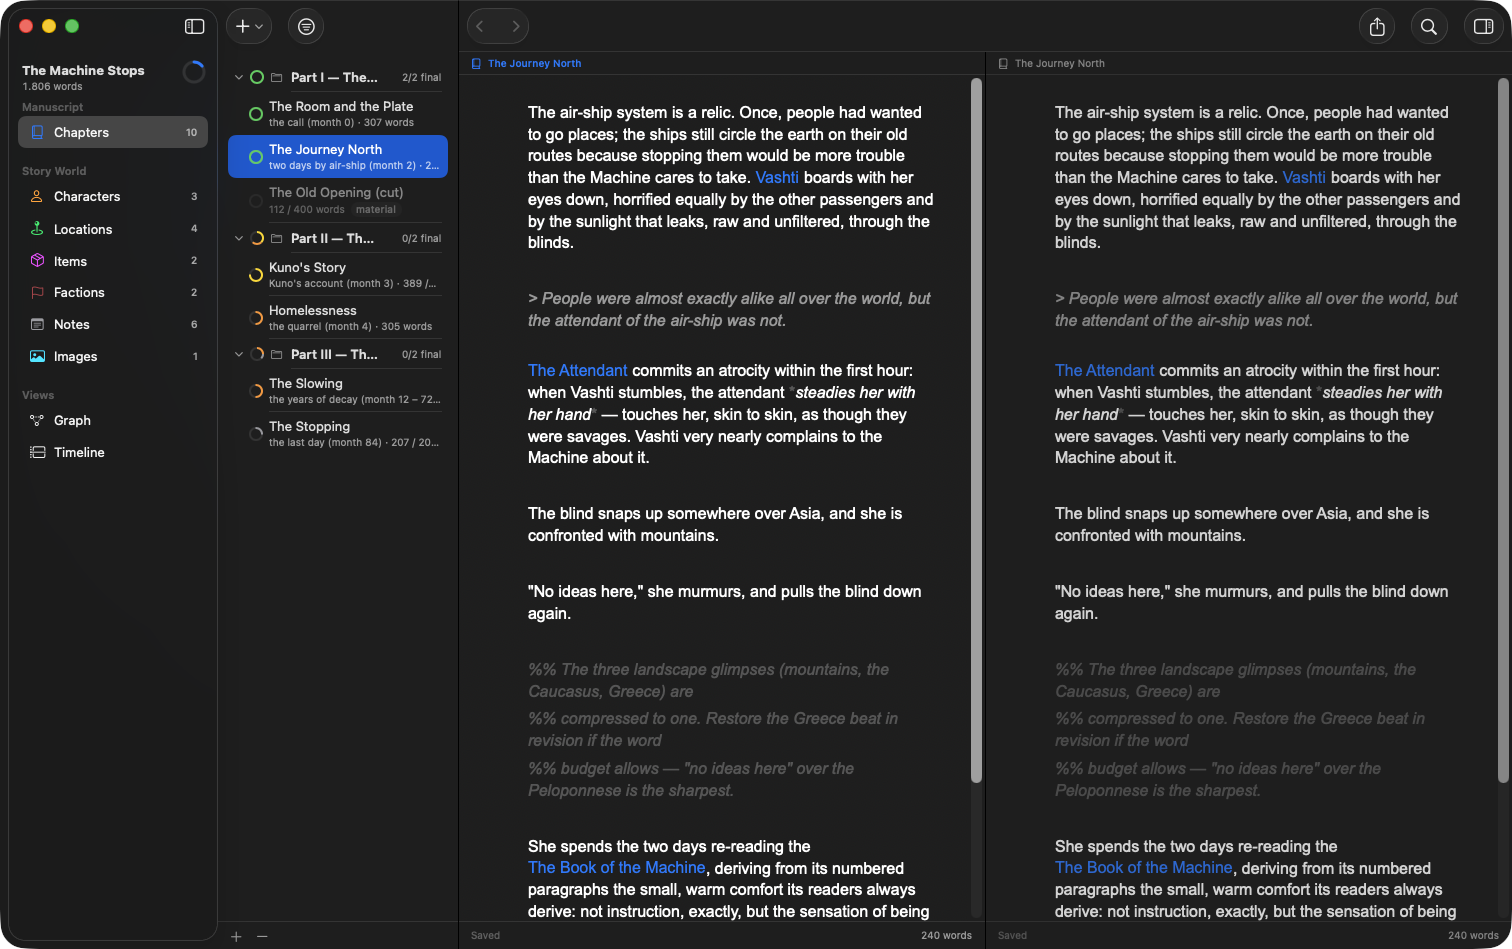
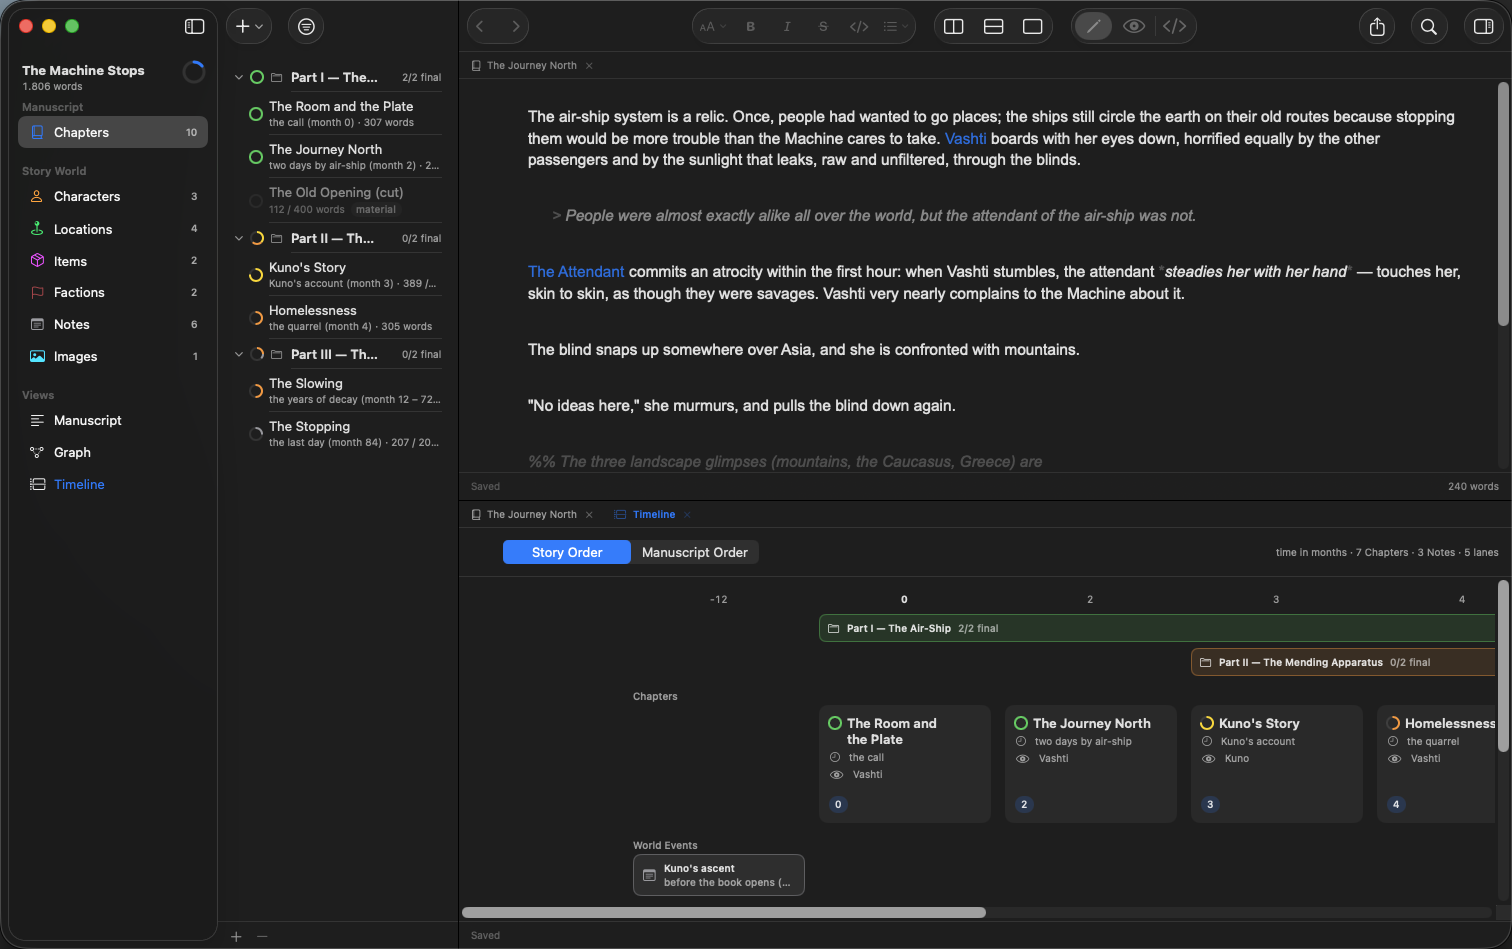
Document tabs and split editors

diff --git a/guide/editor.md b/guide/editor.md
@@ -23,7 +23,7 @@ You don't have to type the marks. The **format buttons above the editor** style 
 
 ### Three views of your text
 
-The switcher in the toolbar shows which view you're in and flips between them: **live styling** (the pencil — where you write), a clean **reading preview** (the eye), and the **raw text** (the brackets). The view belongs to the editor you're working in, so with the [split editor](#split-editor) open you can read one document while writing in the other. Every launch starts in live styling.
+The switcher in the toolbar shows which view you're in and flips between them: **live styling** (the pencil — where you write), a clean **reading preview** (the eye), and the **raw text** (the brackets). The view belongs to the pane you're working in, so with the editor [split](#splitting) you can read one document while writing in the other. Every launch starts in live styling.
 
 ### Preview
 
@@ -80,24 +80,40 @@ All in the **View menu**:
 <img src="/screenshots/editor-focus-light.png" alt="Sentence focus: the sentence at the cursor is dark, everything else dimmed" class="light-only">
 <img src="/screenshots/editor-focus-dark.png" alt="Sentence focus: the sentence at the cursor is dark, everything else dimmed" class="dark-only">
 
-## Three ways to lay out the editor
+## Tabs and split editors
 
-The switcher in the toolbar — and the matching group in the **View menu** — offers three layouts. You're always in exactly one of them, and the switcher shows which:
+Documents open in **tabs**, and the editor area can be **split** into as many panes as you have room for — the same way a code editor works, but for chapters.
 
-- **Single editor** <kbd>⌘⌥1</kbd> — one document at a time. The everyday view.
-- **Split editor** <kbd>⌘⌥2</kbd> — two documents side by side.
-- **Continuous scroll** <kbd>⌘⌥3</kbd> — the whole manuscript as one flowing text.
+### Tabs
 
-### Split editor
+Click a document in the list and it opens as a tab in the editor. Click another and it *replaces* that tab rather than adding one: a tab you've only glanced at shows its name in italics, and browsing the list never leaves a trail of tabs behind. The moment you type in it — or open it deliberately with **Open in Tab** from its right-click menu — the tab is yours and stays put.
 
-<img src="/screenshots/editor-split-light.png" alt="The split editor: two documents side by side" class="light-only">
-<img src="/screenshots/editor-split-dark.png" alt="The split editor: two documents side by side" class="dark-only">
+Each tab shows the document's icon, its name, an `*` while it has unsaved changes, and a close button. <kbd>⌘W</kbd> closes the one you're in; <kbd>⌘⇧]</kbd> and <kbd>⌘⇧[</kbd> step through them.
 
-Each pane shows its own document — write the chapter on the left while its outline or a research note sits on the right. The pane you're working in shows its title in the accent color, and the list column follows it. Leaving this layout closes the second pane.
+<img src="/screenshots/editor-tabs-light.png" alt="A pane's tabs: a chapter, the timeline, and an italic tab opened for a look" class="light-only">
+<img src="/screenshots/editor-tabs-dark.png" alt="A pane's tabs: a chapter, the timeline, and an italic tab opened for a look" class="dark-only">
 
-### Continuous scroll
+### Splitting
 
-Your whole manuscript becomes one flowing view, in reading order. A labeled divider marks where each chapter begins, so the boundaries stay visible while the text reads as one piece — and everything stays editable right there. As you scroll, the chapter currently on screen is highlighted in the list; click a chapter in the list to jump the view to it.
+**Editor → Split Right** (<kbd>⌘⌥→</kbd>) and **Split Down** (<kbd>⌘⌥↓</kbd>) divide the pane you're in; the toolbar has buttons for both. The new pane starts on the same document, so the usual next step is to open something else in it — or to leave it, and read the same chapter in two places at once.
+
+<img src="/screenshots/editor-split-light.png" alt="A chapter above the timeline, each in its own pane with its own tabs" class="light-only">
+<img src="/screenshots/editor-split-dark.png" alt="A chapter above the timeline, each in its own pane with its own tabs" class="dark-only">
+
+Splits nest: split right, then split the right half downward, and you have a chapter beside its outline above your notes. **Close Editor** (<kbd>⌘⌥W</kbd>) removes the pane you're in, and closing a pane's last tab does the same.
+
+Each pane carries its own **word count and saved state** in the bar along its bottom, and its own [view mode](#three-views-of-your-text) — a reading preview on one side, live text on the other. The pane you're working in is the bright one; the others recede. Everything in the menu bar — formatting, saving, find — acts on that pane.
+
+### More than documents
+
+Tabs aren't only for chapters. The **Views** in the sidebar open as tabs too:
+
+- **Manuscript** — your whole manuscript as one flowing text, in reading order. A labeled divider marks where each chapter begins, so the boundaries stay visible while the text reads as one piece — and everything stays editable right there. As you scroll, the chapter on screen is highlighted in the list; click a chapter in the list to jump the view to it.
+- **[Graph](/guide/graph)** and **[Timeline](/guide/timeline)** — the whole-book views, now openable *beside* a chapter instead of taking the window over. Write with the timeline underneath and watch the shape of the book as you go.
+
+### It's remembered
+
+Your panes and tabs are saved with the book. Close it, come back next week, and the same documents are open in the same arrangement.
 
 ## Adding documents from your Mac
 

diff --git a/CLAUDE.md b/CLAUDE.md
@@ -40,13 +40,13 @@ requirements below. When recreating it, build these requirements in
 rather than porting the old script as-is. Capture mechanics that still
 apply: build with a fresh `-derivedDataPath`, launch against a /tmp
 copy of `app/ExampleBook` with the automation args (`-autoOpenPath`,
-`-autoSelectName`, `-autoInspector YES`, `-autoSection` — `graph`,
-`timeline`, or an entity section by plural name like `characters`,
-which combined with `-autoSelectName` gives "document open, different
-list shown" for the drag-to-reference shot,
-`-autoSheet export|settings|types` — the last opens the export sheet,
-the book settings sheet, or its Entity Types tab directly;
-`-autoContinuous YES` opens the continuous-scroll layout), force
+`-autoSelectName`, `-autoInspector YES`, `-autoSection` — `graph` and
+`timeline` now *open those views as editor tabs*, or an entity section
+by plural name like `characters`, which combined with
+`-autoSelectName` gives "document open, different list shown" for the
+drag-to-reference shot, `-autoSheet export|settings|types` — the last
+opens the export sheet, the book settings sheet, or its Entity Types
+tab directly; `-autoContinuous YES` opens a manuscript tab), force
 appearance per shot (`-NSRequiresAquaSystemAppearance YES` /
 `-AppleInterfaceStyle Dark`), normalize the window to 1512×949 pt,
 capture per-window with `screencapture -l`, and verify focus by
@@ -82,7 +82,7 @@ Full-window:
 |---|---|---|
 | `welcome` | Welcome screen, no automation args | [what-is-writingale.md](guide/what-is-writingale.md), [quick-start.md](guide/quick-start.md) |
 | `editor` | "The Journey North" open | [editor.md](guide/editor.md), [quick-start.md](guide/quick-start.md) |
-| `editor-split` | Same, split layout (⌥⌘2 via System Events keystroke) | [editor.md](guide/editor.md) |
+| `editor-split` | "The Journey North", Editor → Split Down then Open Timeline | [editor.md](guide/editor.md) |
 | `editor-hidden` | "The Journey North", Hide Interface toggled (⌘. via System Events keystroke) | [editor.md](guide/editor.md) |
 | `character` | "Vashti" with inspector open | [concepts.md](guide/concepts.md) |
 | `journey` | "Kuno" with inspector open, scrolled to bottom (30 ticks) | [journeys.md](guide/journeys.md) |
@@ -107,6 +107,7 @@ Crops (source composition → crop):
 | `inspector-fields-multi` | "Kuno's Story" + inspector, scrolled 14 ticks → `297x350+1215+330` | [inspector.md](guide/inspector.md) |
 | `inspector-referencedby` | same → `297x240+1215+695` | [inspector.md](guide/inspector.md) |
 | `inspector-journey` | "Kuno" + inspector, scrolled to bottom → `297x610+1215+325` | [inspector.md](guide/inspector.md) |
+| `editor-tabs` | The `editor-split` composition plus a provisional third tab (⌘2 then ↓), lower pane's strip → `620x30+458+500` window-relative | [editor.md](guide/editor.md) |
 | `editor-focus` | "The Journey North", `-editor.focusHighlight sentence`, caret clicked into the last paragraph's second sentence → `1000x580+500+55` | [editor.md](guide/editor.md) |
 | `editor-raw` | "The Journey North", `-editor.markdownMode raw` → `1000x580+500+55` | [editor.md](guide/editor.md) |
 | `editor-preview` | "The Journey North", `-editor.markdownMode preview` → `1000x580+500+55` | [editor.md](guide/editor.md) |
@@ -138,13 +139,11 @@ timeline columns don't stack.
 - **Drag-to-reference** ([editor.md](guide/editor.md) "Links"): a shot
   mid-drag — a character row dragged from the list over the editor
   with the insertion caret visible.
-- **Editor-layout switcher** ([editor.md](guide/editor.md) "Three ways
-  to lay out the editor"): a crop of the toolbar capsule showing the
-  three layouts with one selected. `-autoContinuous YES` opens the
-  continuous layout directly.
-- **Continuous scroll** (same section): a shot of the flowing column
-  with a labeled chapter divider mid-view, and the chapter in view
-  highlighted in the list.
+- **Split buttons** ([editor.md](guide/editor.md) "Splitting"): a
+  crop of the toolbar's split-right / split-down / close-pane group.
+- **Manuscript tab** ([editor.md](guide/editor.md) "More than
+  documents"): a shot of the flowing column with a labeled chapter
+  divider mid-view, and the chapter in view highlighted in the list.
 
 Pages with no screenshots that may not need one (simpler/textual
 content — use judgement, not a hard rule): `installation.md`,

diff --git a/guide/inspector.md b/guide/inspector.md
@@ -1,6 +1,6 @@
 # The Inspector
 
-The inspector (<kbd>⌘4</kbd>, or the toolbar button) is where the selected entity's **facts** live — everything about a chapter or character that isn't its prose. It's the same panel behind the editor, the graph's glance panel, and the timeline. It starts closed; open it when you need it, and it follows whichever pane is focused when the [split editor](/guide/editor#split-editor) is open.
+The inspector (<kbd>⌘4</kbd>, or the toolbar button) is where the selected entity's **facts** live — everything about a chapter or character that isn't its prose. It's the same panel behind the editor, the graph's glance panel, and the timeline. It starts closed; open it when you need it, and it follows whichever [pane](/guide/editor#splitting) is focused.
 
 What the inspector shows depends on what's selected: a chapter offers completion and story time, a character offers relationships and a journey, your custom faction offers its own fields. Every screenshot below is a real close-up from the bundled example book, *The Machine Stops*.
 

diff --git a/guide/concepts.md b/guide/concepts.md
@@ -34,7 +34,7 @@ On disk, every mention records the entity's permanent ID, never its name. The ed
 <img src="/screenshots/character-light.png" alt="A character with relationships, traits, and items in the inspector" class="light-only">
 <img src="/screenshots/character-dark.png" alt="A character with relationships, traits, and items in the inspector" class="dark-only">
 
-- The **sidebar** groups the kinds into sections (Manuscript and Story World, by default) and lists the derived **views** (Graph, Timeline).
+- The **sidebar** groups the kinds into sections (Manuscript and Story World, by default) and lists the whole-book **views** (Manuscript, Graph, Timeline), which open as tabs in the editor.
 - The **list** shows everything of the selected kind — for manuscript kinds, as a nested tree with progress rings and word counts.
 - The **editor** shows the selected entity's text.
 - The **inspector** shows its facts: identity, status, goal, story time, relationships, fields, backlinks, journey. See [The Inspector](/guide/inspector).

diff --git a/reference/file-format.md b/reference/file-format.md
@@ -13,7 +13,7 @@ MyBook/
   Notes/…
   Images/…            # image entities + their binaries (content-hash names)
   …
-  .writingale/        # local app state (stats.json) — gitignored
+  .writingale/        # local app state (stats.json, workspace.json) — gitignored
   Export/             # ignored by the entity scanner
 ```
 
@@ -146,3 +146,7 @@ Plain markdown. Three extensions:
 ```
 
 Local, per-book writing history. Delta-based and never decreasing. Gitignored by the generated `.gitignore`.
+
+## `.writingale/workspace.json`
+
+Which documents you had open, in which panes — restored when you reopen the book. Local and gitignored like the stats; deleting it simply starts you with one empty pane. Nothing about the book itself lives here, so it never matters to anyone you share the folder with.

diff --git a/index.md b/index.md
@@ -34,7 +34,7 @@ features:
     details: Writingale reads your structured data backwards — who appears where, when, and with whom — and draws the map, the timeline, and each character's journey for you.
   - icon: ✍
     title: A focused markdown editor
-    details: Live markdown styling, reference autocomplete, focus and typewriter modes, a split editor, and a distraction-free view.
+    details: Live markdown styling, reference autocomplete, focus and typewriter modes, tabs and split editors, and a distraction-free view.
   - icon: 📤
     title: One clean manuscript
     details: Export compiles the manuscript tree into a single clean markdown file, with references resolved to names and comments stripped.

diff --git a/guide/graph.md b/guide/graph.md
@@ -1,5 +1,7 @@
 # Graph View
 
+Open the graph from **Views** in the sidebar and it appears as a [tab](/guide/editor#more-than-documents) in the editor — put it in a [split](/guide/editor#splitting) and it sits beside the chapter you're writing.
+
 The graph is a living map of everything in your book and every connection between them — mentions in your prose, cast lists and other fields, and relationships all become lines. The manuscript acts as the graph's **spine**: chapters sit on a horizontal line in reading order, and the story world arranges itself around that main line.
 
 <img src="/screenshots/graph-light.png" alt="The graph view of the example book" class="light-only">

diff --git a/reference/shortcuts.md b/reference/shortcuts.md
@@ -16,7 +16,11 @@
 | <kbd>⌘2</kbd> | Focus list |
 | <kbd>⌘3</kbd> | Focus editor |
 | <kbd>⌘4</kbd> | Show/Hide inspector (editor and timeline) |
-| <kbd>⌘⌥3</kbd> | Toggle second editor (split view) |
+| <kbd>⌘⌥→</kbd> | Split the editor right |
+| <kbd>⌘⌥↓</kbd> | Split the editor down |
+| <kbd>⌘⌥W</kbd> | Close the focused editor pane |
+| <kbd>⌘W</kbd> | Close the current tab |
+| <kbd>⌘⇧]</kbd> / <kbd>⌘⇧[</kbd> | Next / previous tab |
 | <kbd>⌘[</kbd> / <kbd>⌘]</kbd> | Navigation history back / forward |
 | <kbd>⌘.</kbd> | Hide interface (distraction-free) |
 | <kbd>⌘⇧R</kbd> | Raw Markdown mode |

diff --git a/guide/timeline.md b/guide/timeline.md
@@ -1,5 +1,7 @@
 # Timeline View
 
+Open the timeline from **Views** in the sidebar and it appears as a [tab](/guide/editor#more-than-documents) in the editor — put it in a [split](/guide/editor#splitting) and you can write with the shape of the book underneath you.
+
 The timeline lays your story out against **story time**, counted in a unit you choose in Book Settings — months for the example book, days or years for yours. 0 is the beginning of the book; negative values are backstory.
 
 <img src="/screenshots/timeline-light.png" alt="The timeline view of the example book" class="light-only">

diff --git a/guide/quick-start.md b/guide/quick-start.md
@@ -49,6 +49,6 @@ Press <kbd>⌘⇧E</kbd> (or **Book → Export Manuscript…**). The export shee
 ## Where to go next
 
 - [Books & Entities](/guide/concepts) — the mental model behind everything
-- [The Editor](/guide/editor) — markup, writing modes, and the split editor
+- [The Editor](/guide/editor) — markup, writing modes, tabs and split editors
 - [Manuscript Structure](/guide/manuscript) — parts, chapters, scenes, and material
 - [Entity Types & Traits](/guide/entity-types) — make the app fit your book
